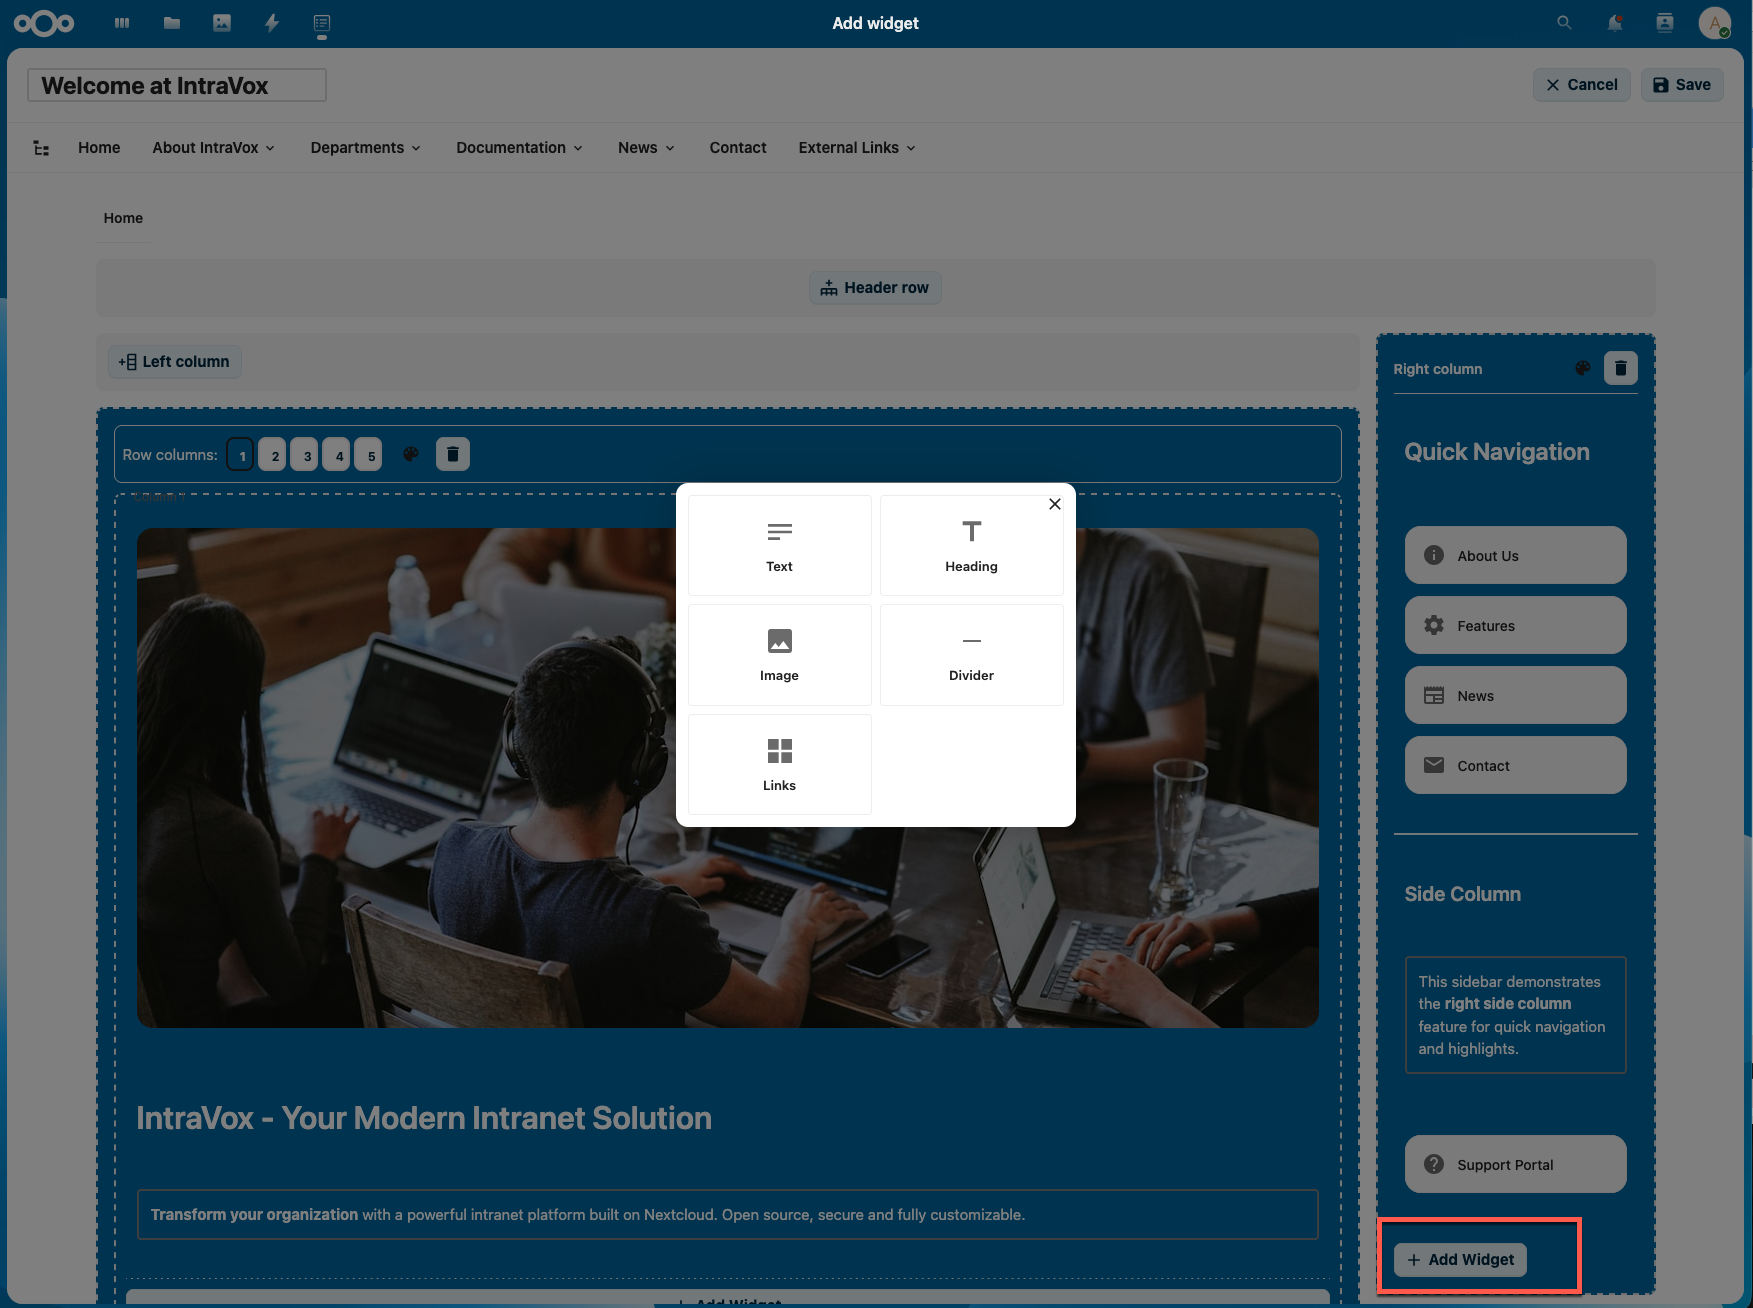
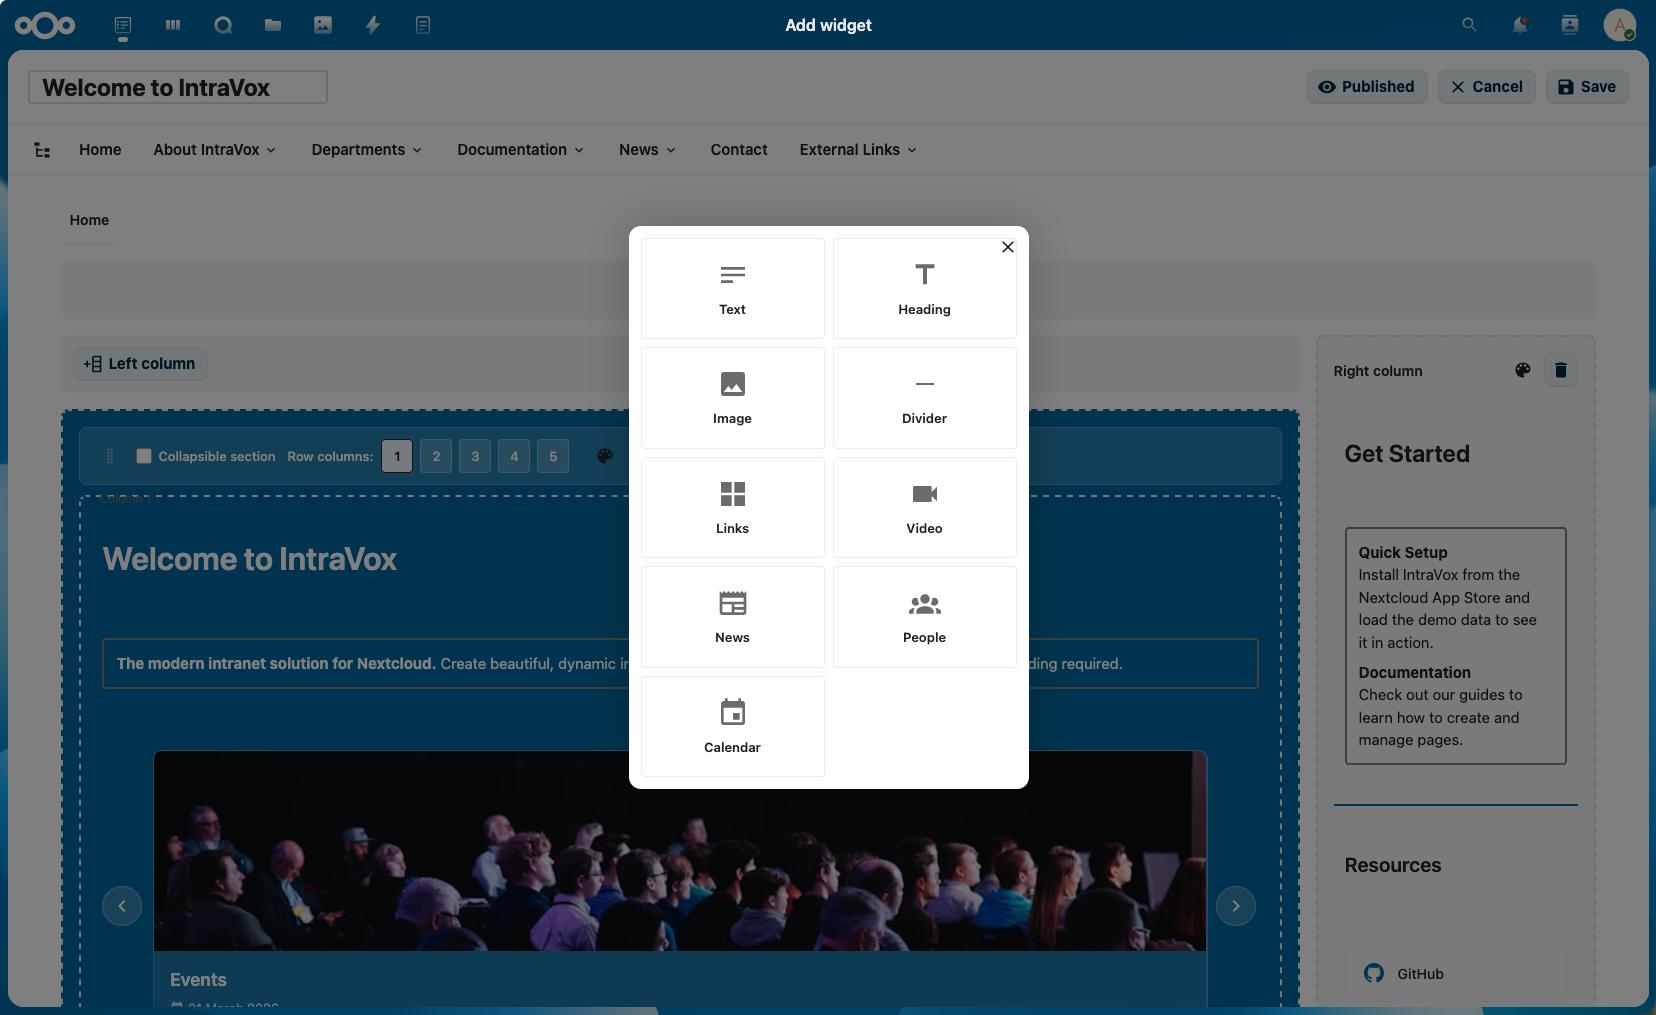
Import demo data for single detected language instead of all languages
- Setup command and migration now detect system language and import only
  matching demo data instead of always importing both nl and en
- Add --language / -l flag to intravox:setup command for explicit override
- Exclude _templates folder from license page counting
- Add calendar widget and other new screenshots

diff --git a/lib/Command/SetupCommand.php b/lib/Command/SetupCommand.php
@@ -24,6 +24,12 @@ class SetupCommand extends Command {
         $this->setName('intravox:setup')
             ->setDescription('Setup IntraVox groupfolder structure and import demo data')
             ->addOption(
+                'language',
+                'l',
+                InputOption::VALUE_REQUIRED,
+                'Language code for demo data (nl, en). Defaults to detected system language.'
+            )
+            ->addOption(
                 'skip-demo',
                 null,
                 InputOption::VALUE_NONE,
@@ -40,7 +46,8 @@ class SetupCommand extends Command {
     protected function execute(InputInterface $input, OutputInterface $output): int {
         $output->writeln('<info>Setting up IntraVox groupfolder...</info>');
 
-        if (!$this->setupService->setupSharedFolder()) {
+        $setupResult = $this->setupService->setupSharedFolder();
+        if (!$setupResult['success']) {
             $output->writeln('<error>✗ Failed to setup IntraVox groupfolder</error>');
             $output->writeln('<error>  Please check logs for details</error>');
             $output->writeln('<error>  Make sure the groupfolders app is installed and enabled</error>');
@@ -57,20 +64,19 @@ class SetupCommand extends Command {
         $shouldImport = !$skipDemo && ($forceDemo || !$this->demoDataService->isDemoDataImported());
 
         if ($shouldImport) {
+            $language = $input->getOption('language') ?? $this->setupService->detectDefaultLanguage();
             $output->writeln('');
-            $output->writeln('<info>Importing demo data...</info>');
+            $output->writeln("<info>Importing demo data for language: {$language}...</info>");
 
-            // Import both NL and EN demo data if available
-            foreach (['nl', 'en'] as $language) {
-                if ($this->demoDataService->hasBundledDemoData($language)) {
-                    $output->writeln("<info>  Importing {$language} demo data...</info>");
-                    $result = $this->demoDataService->importBundledDemoData($language);
-                    if ($result['success']) {
-                        $output->writeln("<info>  ✓ {$language}: {$result['imported']} items imported</info>");
-                    } else {
-                        $output->writeln("<comment>  ⚠ {$language}: {$result['message']}</comment>");
-                    }
+            if ($this->demoDataService->hasBundledDemoData($language)) {
+                $result = $this->demoDataService->importBundledDemoData($language);
+                if ($result['success']) {
+                    $output->writeln("<info>  ✓ {$language}: {$result['imported']} items imported</info>");
+                } else {
+                    $output->writeln("<comment>  ⚠ {$language}: {$result['message']}</comment>");
                 }
+            } else {
+                $output->writeln("<comment>  ⚠ No bundled demo data available for '{$language}'</comment>");
             }
 
             $output->writeln('<info>✓ Demo data imported</info>');

diff --git a/lib/Service/SetupService.php b/lib/Service/SetupService.php
@@ -51,6 +51,21 @@ class SetupService {
     }
 
     /**
+     * Detect the default language based on Nextcloud system configuration.
+     * Returns 'nl' if the system language is Dutch, otherwise 'en'.
+     */
+    public function detectDefaultLanguage(): string {
+        $systemLanguage = $this->config->getSystemValue('default_language', 'en');
+        $langCode = substr($systemLanguage, 0, 2);
+
+        if ($langCode === 'nl') {
+            return 'nl';
+        }
+
+        return 'en';
+    }
+
+    /**
      * Check if the GroupFolders app is installed and enabled
      */
     public function isGroupFoldersAppEnabled(): bool {
@@ -283,11 +298,15 @@ class SetupService {
 
     /**
      * Create default content in the IntraVox folder
+     *
+     * @param Folder $folder The IntraVox groupfolder
+     * @param string|null $language If provided, only create content for this language. If null, uses detected default language.
      */
-    private function createDefaultContent($folder): void {
+    private function createDefaultContent($folder, ?string $language = null): void {
         try {
-            // Create language folders
-            foreach (self::SUPPORTED_LANGUAGES as $lang) {
+            $languages = $language !== null ? [$language] : [$this->detectDefaultLanguage()];
+
+            foreach ($languages as $lang) {
                 try {
                     $langFolder = $folder->get($lang);
                     $this->logger->info("Language folder '{$lang}' already exists");
@@ -721,7 +740,7 @@ class SetupService {
             $installed = 0;
             $skipped = 0;
 
-            // Install templates for each language
+            // Install templates only for languages that have a folder
             foreach (self::SUPPORTED_LANGUAGES as $lang) {
                 try {
                     $langFolder = $folder->get($lang);

diff --git a/lib/Migration/SetupDemoData.php b/lib/Migration/SetupDemoData.php
@@ -49,16 +49,15 @@ class SetupDemoData implements IRepairStep {
 
         // Import demo data if not already imported
         if (!$this->demoDataService->isDemoDataImported()) {
-            $output->info('Importing demo data...');
+            $language = $this->setupService->detectDefaultLanguage();
+            $output->info("Importing demo data for language: {$language}...");
 
-            foreach (['nl', 'en'] as $language) {
-                if ($this->demoDataService->hasBundledDemoData($language)) {
-                    $result = $this->demoDataService->importBundledDemoData($language);
-                    if ($result['success']) {
-                        $output->info("{$language}: {$result['imported']} items imported");
-                    } else {
-                        $output->warning("{$language}: {$result['message']}");
-                    }
+            if ($this->demoDataService->hasBundledDemoData($language)) {
+                $result = $this->demoDataService->importBundledDemoData($language);
+                if ($result['success']) {
+                    $output->info("{$language}: {$result['imported']} items imported");
+                } else {
+                    $output->warning("{$language}: {$result['message']}");
                 }
             }
 

diff --git a/lib/Service/LicenseService.php b/lib/Service/LicenseService.php
@@ -450,7 +450,7 @@ class LicenseService {
                 $folderName = $node->getName();
 
                 // Skip special folders
-                if (in_array($folderName, ['_media', '_resources', '_versions'])) {
+                if (in_array($folderName, ['_media', '_resources', '_versions', '_templates'])) {
                     continue;
                 }
 
